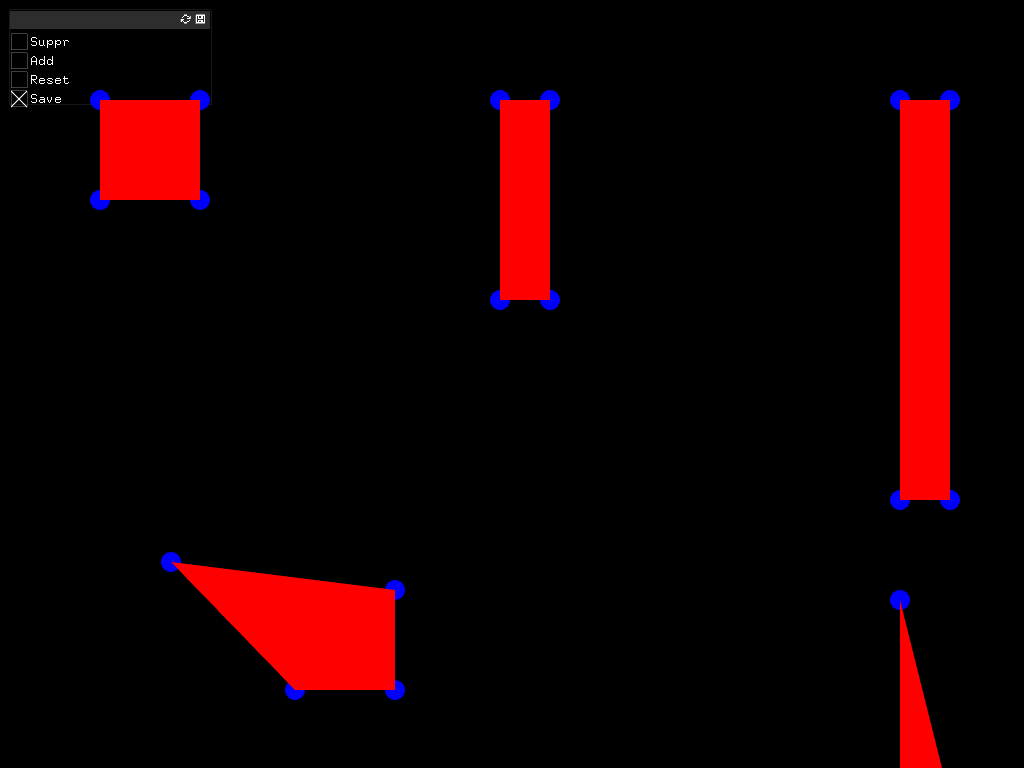
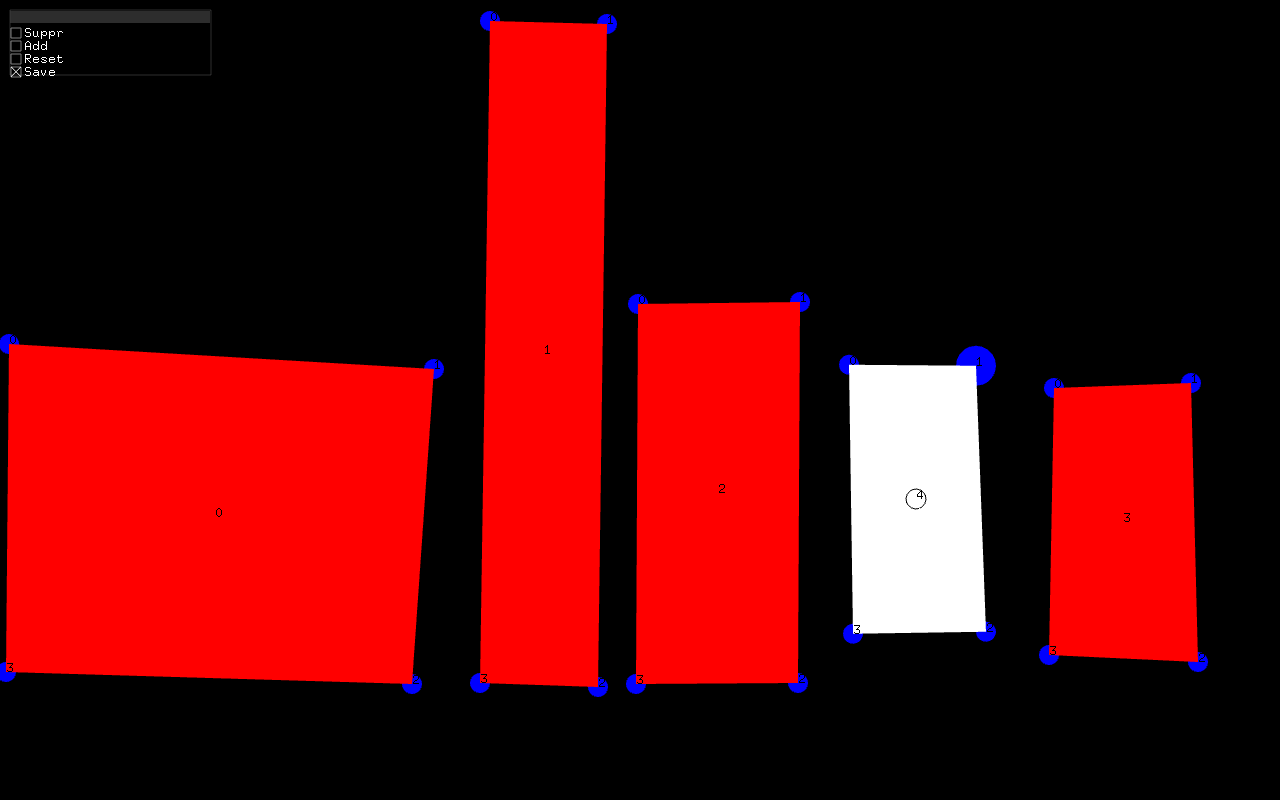
Video + clean

diff --git a/CarnozetApps/GitApps/MaskingGenerator/src/testApp.cpp b/CarnozetApps/GitApps/MaskingGenerator/src/testApp.cpp
@@ -51,6 +51,10 @@ void testApp::draw(){
     for(int i=0; i<listOfScreen.size(); i++){
         
         listOfScreen.at(i).draw();
+        ofDrawBitmapString(ofToString(i),listOfScreen.at(i).centroid.x, listOfScreen.at(i).centroid.y);
+        for (int j = 0 ;j< 4 ; j++){
+        ofDrawBitmapString(ofToString(j),listOfScreen.at(i).listOfPoint[j] );
+        }
 
         
     }
@@ -116,8 +120,8 @@ void testApp::saveXml(){
         
         Screen src = listOfScreen.at(i);
         
-        xml.addTag(ofToString("ecran").append(ofToString(i)));
-        xml.pushTag(ofToString("ecran").append(ofToString(i)));
+        xml.addTag(ofToString("ecran"));
+        xml.pushTag(ofToString("ecran"),i);
        
         
         
@@ -125,12 +129,12 @@ void testApp::saveXml(){
         {
             
             
-            xml.addTag(ofToString("point").append(ofToString(j)));
-            xml.pushTag(ofToString("point").append(ofToString(j)));
+            xml.addTag(ofToString("p"));  
+            xml.pushTag(ofToString("p"),j);
             
             
-            xml.setValue("x", src.listOfPoint.at(j).x);
-            xml.setValue("y", src.listOfPoint.at(j).y);
+            xml.setValue("x", src.listOfPoint.at(j).x/ofGetWidth());
+            xml.setValue("y", src.listOfPoint.at(j).y/ofGetHeight());
             
 
             
